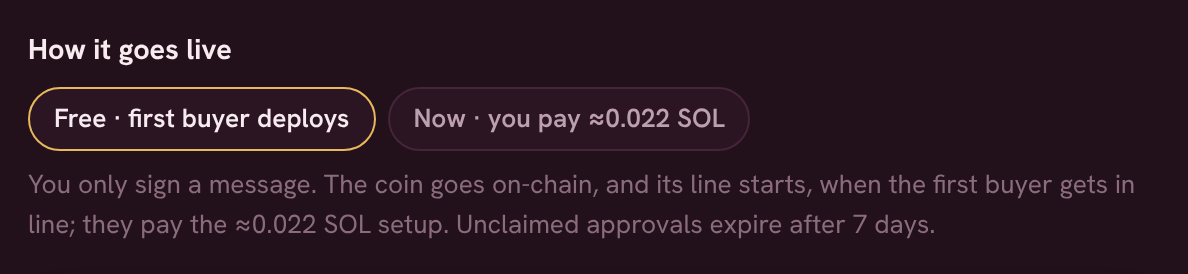
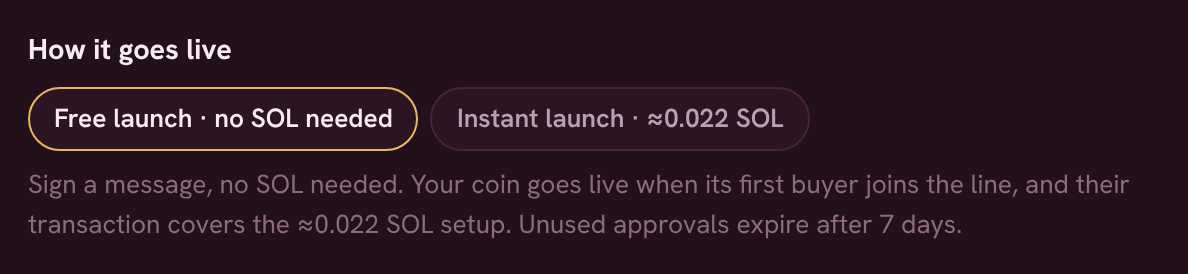
Rename launch options to Free launch / Instant launch; new screenshots
Claude-Session: https://claude.ai/code/session_015DkbYHHNvhww7j8aS5ENHx

diff --git a/launching/free-launches.md b/launching/free-launches.md
@@ -8,7 +8,7 @@ With a free launch you don't need any SOL. You **sign a message** with your wall
 
 ## How it works
 
-1. On the launch form, pick **Free · first buyer deploys** and press launch.
+1. On the launch form, choose **Free launch · no SOL needed** and press launch.
 2. Your wallet asks you to **sign a message**. It's a signature, not a transaction: nothing is sent and nothing is spent.
 3. Your coin appears under **Ready to launch** on the board, with its own page. Share it.
 4. The first buyer presses **Get in line**. Their single transaction checks your signature on-chain, creates the coin exactly as you set it up, and commits their SOL.
@@ -32,11 +32,11 @@ The long code is a fingerprint of everything about your launch: the coin's reser
 
 * **You're still the creator.** The coin is created with your wallet as its creator, so you earn the [creator share](creator-earnings.md) of pool fees after it bonds, even though someone else paid the setup.
 * **Approvals expire after 7 days.** If nobody opens the coin by then, it drops off the board.
-* **No opening buy.** A free launch can't include a creator buy or a lock. If you want an opening buy, choose **Now**.
+* **No opening buy.** A free launch can't include a creator buy or a lock. If you want an opening buy, choose **Instant launch**.
 * **Up to 5 at a time.** Each wallet can have up to 5 free launches waiting.
 * **Going first gives no edge.** The first buyer pays the setup but still gets the same line price as everyone else.
 * **Links are shorter.** The first buyer's transaction carries your coin's details, so the metadata link has to be short. Velvet's own logo hosting always fits.
 
 {% hint style="info" %}
-Wallets that can't sign messages (a few older or hardware setups) can't use free launches. Pick **Now** instead.
+Wallets that can't sign messages (a few older or hardware setups) can't use free launches. Choose **Instant launch** instead.
 {% endhint %}

diff --git a/launching/launch-a-coin.md b/launching/launch-a-coin.md
@@ -31,9 +31,9 @@ Set the least SOL the line has to raise, up to **100 SOL**. If the line ends bel
 
 ## 5. Choose how it goes live
 
-<figure><img src="../.gitbook/assets/launch-mode.png" alt="Free or Now" width="560"><figcaption><p>How it goes live</p></figcaption></figure>
+<figure><img src="../.gitbook/assets/launch-mode.png" alt="Free launch or Instant launch" width="560"><figcaption><p>How it goes live</p></figcaption></figure>
 
-| | **Free** · first buyer deploys | **Now** · you pay ≈0.022 SOL |
+| | **Free launch** · no SOL needed | **Instant launch** · ≈0.022 SOL |
 | --- | --- | --- |
 | What you do | Sign a message. No transaction. | Send the launch transaction. |
 | Cost to you | **0 SOL** | ≈0.022 SOL of account setup, plus any opening buy |
@@ -45,7 +45,7 @@ See [Free launches](free-launches.md) for how the free option works.
 
 ## 6. Launch and share
 
-Press **Launch**. Your wallet asks you to sign (Free) or approve the transaction (Now). Your coin is on the board as soon as it's done. Share the link while the line is open: everyone who joins gets the same price. See [Sharing a coin](../trading/sharing.md).
+Press **Launch**. Your wallet asks you to sign (free launch) or approve the transaction (instant launch). Your coin is on the board as soon as it's done. Share the link while the line is open: everyone who joins gets the same price. See [Sharing a coin](../trading/sharing.md).
 
 {% hint style="info" %}
 None of the setup cost goes to Velvet. It's the rent Solana charges to create the coin's accounts.

diff --git a/how-it-works/fees.md b/how-it-works/fees.md
@@ -6,7 +6,7 @@ description: Every fee on Velvet, and where it goes.
 
 | When | Fee | Goes to |
 | --- | --- | --- |
-| **Launching a coin** | Free, or ≈0.022 SOL | Nobody. It's Solana's account rent. Free launch: the first buyer pays it. Launch now: you pay it. |
+| **Launching a coin** | Free, or ≈0.022 SOL | Nobody. It's Solana's account rent. Free launch: the first buyer covers it. Instant launch: you cover it. |
 | **Joining a line** | 1%, taken when the line settles | ¼ to the coin's holders, ¾ to Velvet. Not taken if the line ends short. |
 | **Curve trade** (buy or sell) | 1% | ¼ (0.25%) to the coin's holders, ¾ (0.75%) to Velvet |
 | **Cover charge** right after the open | up to 50%, falling to 1% in about a minute | Everything above 1% goes to the coin's holders |

diff --git a/launching/opening-buy.md b/launching/opening-buy.md
@@ -4,7 +4,7 @@ description: The creator's opening buy, and locking it so holders know you're st
 
 # Opening buy and lock
 
-When you **launch now** (not free), you can buy some of your own coin **inside the launch transaction**.
+With an **instant launch** (not free), you can buy some of your own coin **inside the launch transaction**.
 
 ## The opening buy
 
